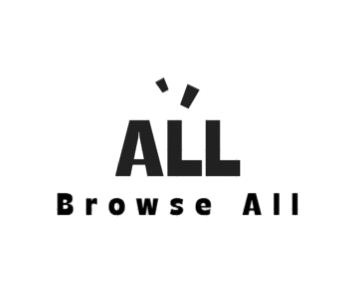
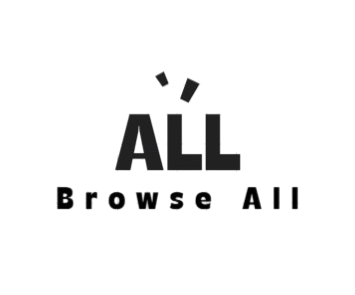
세부 태그 및 세부 디자인 수정

diff --git a/src/pages/CategoryPage.tsx b/src/pages/CategoryPage.tsx
@@ -8,7 +8,7 @@ import ewhaImg from '@/assets/images/Category/ewha.png';
 import hapjeongImg from '@/assets/images/Category/hapjeong.png';
 import allSpotImg from '@/assets/images/Category/allspot.png';
 
-type CategoryId = 'sogang' | 'yonsei' | 'hongik' | 'ewha' | 'nearby' | 'all';
+type CategoryId = 'sogang' | 'yonsei' | 'hongik' | 'ewha' | 'hapjeong' | 'all';
 
 interface CircleImageButtonProps {
   id: CategoryId;
@@ -23,11 +23,15 @@ function CircleImageButton({ id, selected, onSelect, imgSrc, alt }: CircleImageB
 
   return (
     <button
-      type="button"
-      onClick={() => onSelect(id)}
-      className={`w-36 h-36 rounded-full border-4 flex items-center justify-center transition
-        ${isActive ? 'border-black' : 'border-transparent'}`}
-    >
+  type="button"
+  onClick={() => onSelect(id)}
+  className={`
+    w-36 h-36 rounded-full flex items-center justify-center
+    transition-transform duration-300 ease-out
+    hover:scale-110
+    ${isActive ? 'scale-110' : 'scale-90'}
+  `}
+>
       <img src={imgSrc} alt={alt} className="w-full h-full" />
     </button>
   );
@@ -36,6 +40,15 @@ function CircleImageButton({ id, selected, onSelect, imgSrc, alt }: CircleImageB
 export default function CategoryPage() {
   const navigate = useNavigate();
   const [selected, setSelected] = useState<CategoryId | null>(null);
+
+  const regionNames: Record<CategoryId, string> = {
+    sogang: '서강대학교',
+    yonsei: '연세대학교',
+    hongik: '홍익대학교',
+    ewha: '이화여자대학교',
+    hapjeong: '합정역 근처',
+    all: '전체 모아보기',
+  };
 
   const handleSelect = (value: CategoryId) => {
     setSelected(value);
@@ -46,6 +59,7 @@ export default function CategoryPage() {
       <h1 className="text-2xl text-center mt-8 mb-8 text-gray-800">
         오늘은 <span className="text-brown-2 font-bold">어디서</span> 공부하고 싶으신가요?
       </h1>
+      
 
       <div className="grid grid-cols-2 gap-x-10 gap-y-8 mb-6">
         <CircleImageButton
@@ -78,11 +92,11 @@ export default function CategoryPage() {
         />
 
         <CircleImageButton
-          id="nearby"
+          id="hapjeong"
           selected={selected}
           onSelect={handleSelect}
           imgSrc={hapjeongImg}
-          alt="근처 추천 카페"
+          alt="합정역 근처"
         />
         <CircleImageButton
           id="all"
@@ -92,14 +106,18 @@ export default function CategoryPage() {
           alt="전체 모아보기"
         />
       </div>
+      
+      <div>
+        {selected && <p className="text-center text-lg mb-4 text-gray-700">선택한 지역: {regionNames[selected]}</p>}
+      </div>
 
       <Button
         size="full"
         textColor="white"
-        className="mt-15 text-lg"
+        className="mt-5 text-xl"
         onClick={() => navigate('/filter', { state: { region: selected } })}
       >
-        선택 완료
+        Next
       </Button>
     </div>
   );

diff --git a/src/pages/FilterPage.tsx b/src/pages/FilterPage.tsx
@@ -30,7 +30,7 @@ export default function FilterPage() {
     yonsei: '연세대학교',
     hongik: '홍익대학교',
     ewha: '이화여자대학교',
-    nearby: '근처 추천 카페',
+    hapjeong: '합정역 근처',
     all: '전체 모아보기',
   };
 